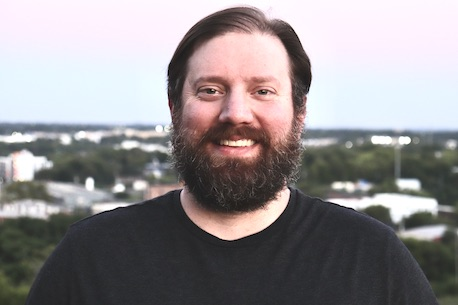
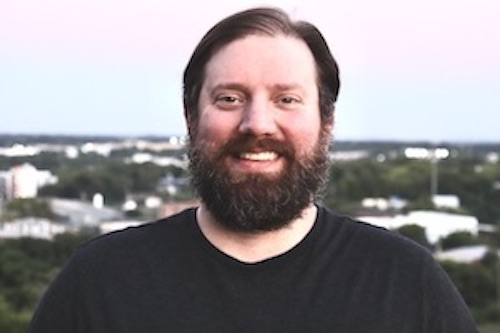
layout development

diff --git a/index.html b/index.html
@@ -24,25 +24,55 @@
                     <a href="#contact">Contact</a>
                 </li>
             </ul>
-        </nav>
+        </nav>    
+    </header>
+    <section class="photo-greeting">
+        <img src="./assets/images/Me.jpeg" alt="Jason is smiling and being awesome">
         <h1>
             <a href="/">INVOLVED JASON</a>
         </h1>
-    </header>
+    </section>
     <section id="about">
-        <h1>About</h1>
+        <h2>About</h2>
         <p>DIY drummer dad living in Nashville.  Learning to code one application at a time.</p>
     </section>
     <section id="my-work">
-        <h1>My work</h1>
-        <h2>Run Buddy</h2>
-        <h2>Horieseon Consolidated LLC</h2>
-        <h2>Sample Project</h2>
-        <h2>Sample Project</h2>
-        <h2>Sample Project</h2>
+        <h2>My work</h2>
+        <article>
+            <a class="article" href="https://jasonwesleysmith.github.io/Run-buddy/">
+                <h3>Run Buddy</h3>
+                <img src="./assets/images/Run-Buddy-Cover.png" alt="Run Buddy landing page screenshot">
+            </a>
+        </article>
+        <div class="grid">
+            <article>
+                <a class="article" href="https://jasonwesleysmith.github.io/horiseon-consolidated-LLC/">
+                    <h3>Horiseon</h3>
+                    <img src="./assets/images/Horiseon.png" alt="Horiseon consolidated refactor screenshot">
+                </a>
+            </article>
+            <article>
+                <a class="article" href="">
+                    <h3>Sample Project</h3>
+                    <div class="placeholder-image"></div>
+                </a>
+            </article>
+            <article>
+                <a class="article" href="">
+                    <h3>Sample Project</h3>
+                    <div class="placeholder-image"></div>
+                </a>
+            </article> 
+            <article>
+                <a class="article" href="">
+                    <h3>Sample Project</h3>
+                    <div class="placeholder-image"></div>
+                </a>
+            </article>     
+        </div>
     </section>
     <section id="contact">
-        <h1>Contact</h1>
+        <h2>Contact</h2>
         <a href="tel:+8165509299">816.550.9299</a>
         <a href="mailto:jasonwesleysmith82@gmail.com">Email</a>
         <a href="https://github.com/Jasonwesleysmith">Github</a>

diff --git a/assets/css/styles.css b/assets/css/styles.css
@@ -1,8 +1,96 @@
-header {
-    
-    
-}
 
 html {
     font-family: sans-serif;
+    scroll-behavior: smooth;
+    background-color: lightslategray;
 }
+
+h1 {
+    font-size: 72px;
+    margin-left: 15px;
+}
+
+h2 {
+    font-size: 64px;
+}
+
+h3 {
+    font-size: 48px;
+}
+
+p {
+    font-size: 36px;
+}
+
+a {
+    color: inherit;
+    text-decoration: none;
+}
+
+.placeholder-image {
+    width: 424px;
+    height: 220px;
+    background-color: steelblue;
+}
+
+
+ul {
+    list-style-type: none;
+    padding-left: 0;
+    display: flex;
+    justify-content: center;
+  
+}
+
+li {
+    margin: 50px;
+}
+
+.photo-greeting {
+    display: flex;
+    justify-content: space-evenly;
+    align-items: center;
+}
+
+#about, #my-work, #content, .article {
+    display: flex;
+    flex-direction: column;
+    align-items: center;
+}
+
+.grid {
+    display: flex;
+    flex-wrap: wrap;
+    justify-content: center;
+    margin-left: 10%;
+    margin-right: 10%;
+    
+}
+
+#my-work {
+    
+}
+
+.grid article {
+    margin: 20px;
+}
+
+/* MEDIA QUERY FOR SMALLER DESKTOP SCREENS AND SMALLER */
+@media screen and (max-width: 980px) {
+    .photo-greeting img {
+        width: 300px;
+        height: 200px;
+    }
+   
+  }
+/* MEDIA QUERY FOR TABLETS AND SMALLER */
+@media screen and (max-width: 768px) {
+    .photo-greeting {
+        flex-direction: column;
+        align-items: center;
+    }
+  }  
+/* MEDIA QUERY FOR MOBILE PHONES AND SMALLER */
+ @media screen and (max-width: 575px) {
+
+  }
